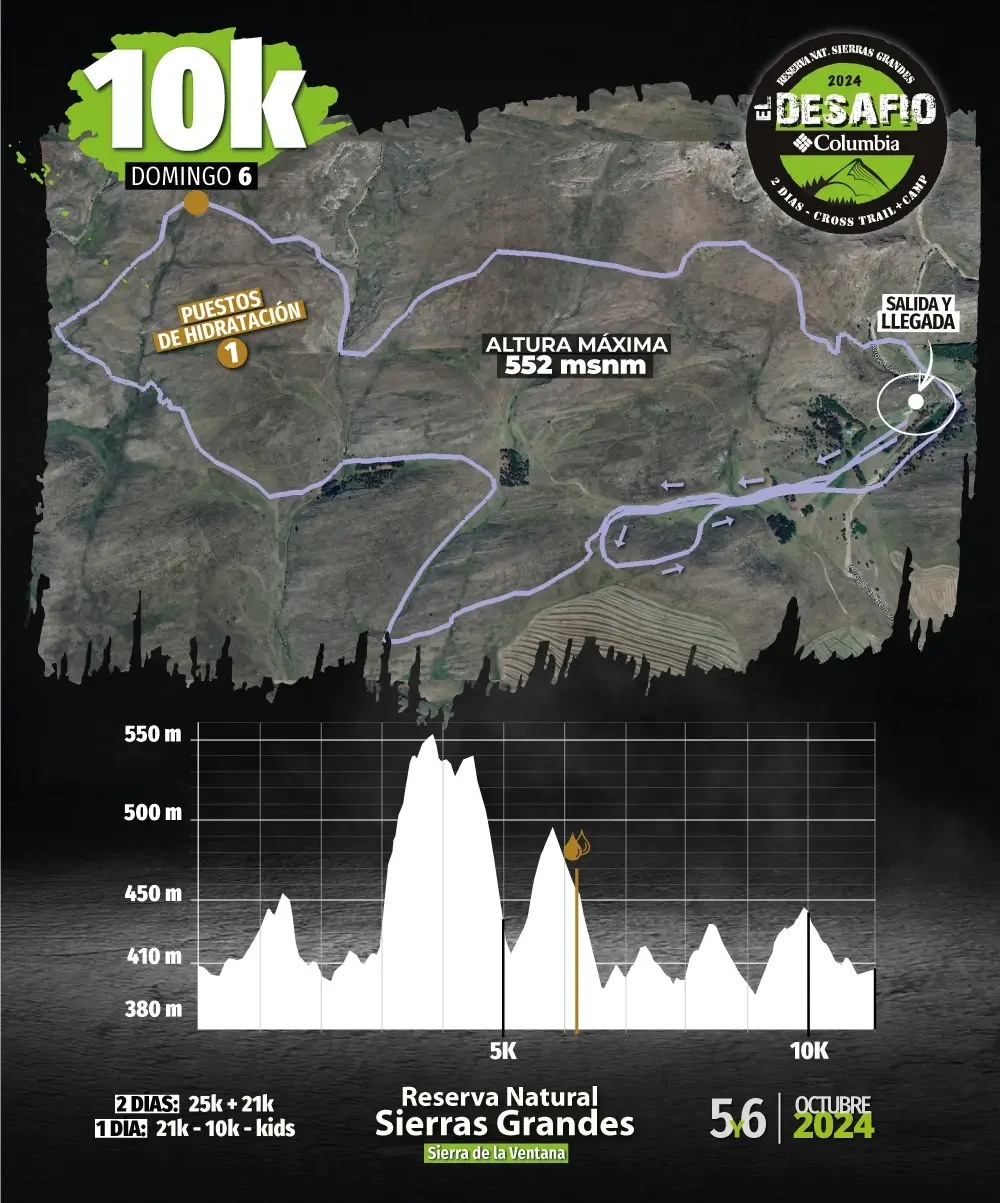
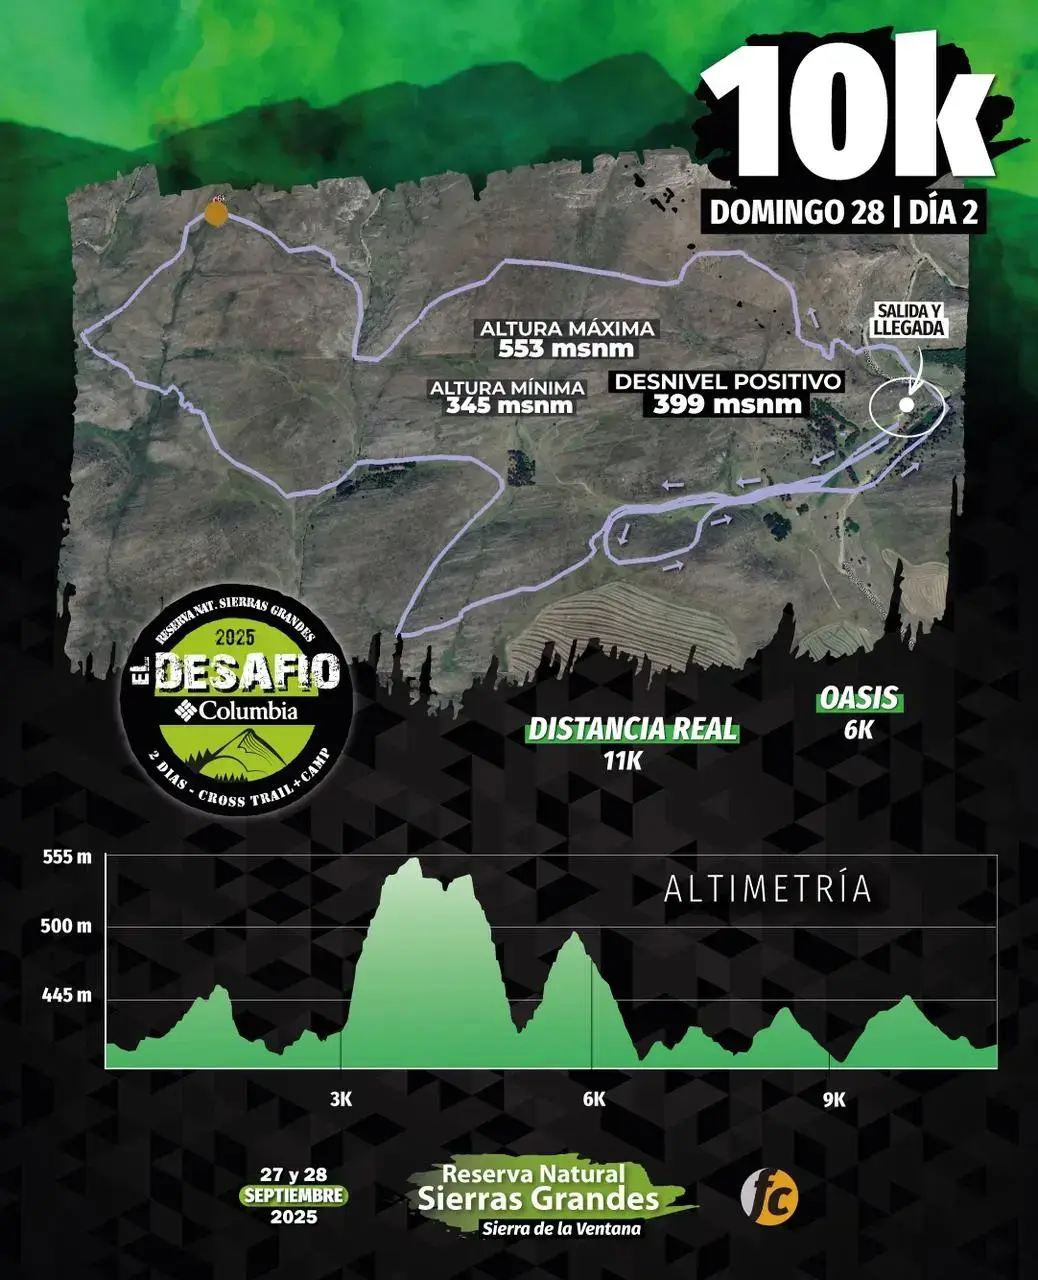
desafio imagenes recorrido

diff --git a/src/Components/Carreras/ElDesafio/Index/ElDesafio.js b/src/Components/Carreras/ElDesafio/Index/ElDesafio.js
@@ -9,10 +9,11 @@ import AptoMedicoDesafio from '../../../../PDF/aptoMedicoDesafio.pdf';
 import AutMenoresDesafio from '../../../../PDF/autMenoresDesafio.pdf';
 
 import elDesafio from '../../../../Img/ElDesafio/elDesafio.webp';
-/* import Imagen10KM from '../../../../Img/ElDesafio/10KM.webp';
+import Imagen10KM from '../../../../Img/ElDesafio/10KM.webp';
 import Imagen21KM from '../../../../Img/ElDesafio/21KM.webp';
-import Imagen25KM from '../../../../Img/ElDesafio/25KM.webp'; */
-import comoLlegar from '../../../../Img/ElDesafio/comoLlegar.webp'
+import Imagen25KM from '../../../../Img/ElDesafio/25KM.webp'; 
+import ImagenKids from '../../../../Img/ElDesafio/KIDS.webp';
+import comoLlegar from '../../../../Img/ElDesafio/comoLlegar.webp';
 
 
 import '../Index/elDesafio.css'
@@ -79,18 +80,21 @@ function ElDesafio() {
                 <ul>
                     <li><strong>El Desafío Columbia: 46K divididos en 2 días:</strong></li>
                 </ul>
-                <p>Son distancias reales de 23 kilómetros el sábado y 20 kilómetros el domingo, con campamento opcional.</p>
-                <p>Disfrutarán un recorrido duro con varios ascensos, uno de ellos es al Cerro Carpa, convirtiéndose en LA CARRERA MÁS ALTA DE LA PROVINCIA DE BUENOS AIRES con un ascenso de 1.000 metros. Es un evento ideal para prepararse para otras carreras exigentes de mayor distancia y también de varios días como El Cruce.</p>
+                <p>El sábado comienza la aventura para ustedes con la distancia más larga en el DÍA 1. Largan 14hs.</p>
+                <p>El campamento es opcional. Recomendamos vivir la experiencia.</p>
+                <p>El domingo, 10am, largan su DÍA 2 con el resto de las modalidades.</p>
+                <p>Disfrutarán un recorrido duro con varios ascensos, uno de ellos, el sábado, es al Cerro Carpa, convirtiéndose en LA CARRERA MÁS ALTA DE LA PROVINCIA DE BUENOS AIRES con un ascenso de 1.000 metros.</p>
+                <p>Es un evento ideal para prepararse para otras carreras exigentes de mayor distancia y también de varios días como El Cruce.</p>
 
                 <ul>
                     <li><strong>21K media maratón de domingo</strong></li>
                 </ul>
-                <p>Un día de carrera. 20 kilómetros. Un medio maratón ideal diseñado para aquellos corredores que buscan superarse a sí mismos elevando la barrera de los 10K. Es un verdadero trail donde se sumergirán en el interior de Sierras Grandes con un desnivel interesante que probará tu entrenamiento a lo largo del año.</p>
+                <p>Un día de carrera. Domingo. Un medio maratón ideal diseñado para aquellos corredores que buscan superarse a sí mismos elevando la barrera de los 10K. Es un verdadero trail donde se sumergirán en el interior de Sierras Grandes con un desnivel interesante que probará tu entrenamiento a lo largo del año.</p>
 
                 <ul>
                     <li><strong>10K y un inicio al trail running para muchos</strong></li>
                 </ul>
-                <p>Un día de carrera. 11 kilómetros el domingo. Una carrera para aquellos corredores que quieran incursionar en el mundo del trail running, y también para aquellos experimentados que les gusta la velocidad de los 10K con una mezcla de ascensos pronunciados y llanos para quemar zapatillas.</p>
+                <p>Un día de carrera. Domingo. Una distancia para aquellos corredores que quieran incursionar en el mundo del trail running, y también para aquellos experimentados que les gusta la velocidad de los 10K con una mezcla de ascensos pronunciados y llanos para quemar zapatillas.</p>
 
                 <ul>
                     <li><strong>Distancia kids: introducción al trail</strong></li>
@@ -100,7 +104,7 @@ function ElDesafio() {
                 <ul>
                     <li><strong>RESUMEN PARA TODAS LAS DISTANCIAS</strong></li>
                 </ul>
-                <p>Se van a encontrar con un verdadero TRAIL RUNNING. Es un terreno variado y con elevación donde disfrutarán las hermosas vistas que nos provee la Reserva Natural Sierras Grandes. Las distancias son reales: 23K, 20K, 11K y 1K para los kids.</p>
+                <p>Se van a encontrar con un verdadero TRAIL RUNNING. Es un terreno variado y con elevación donde disfrutarán las hermosas vistas que nos provee la Reserva Natural Sierras Grandes.</p>
 
 
                 <ul>
@@ -375,11 +379,13 @@ function ElDesafio() {
                 ></iframe>
 
 
-             {/*    <img src={Imagen25KM} alt='Recorrido 25KM' className='recorridos' /> 
+                <h3>RECORRIDO 25K</h3>
+
+                 <img src={Imagen25KM} alt='Recorrido 25KM' className='recorridos' /> 
 
              <h3>RECORRIDO 21K</h3>
 
-             <iframe
+           {/*   <iframe
                     src="https://www.instagram.com/p/C_0Ta_lunWl/embed"
                     width="400"
                     height="480"
@@ -388,14 +394,14 @@ function ElDesafio() {
                     allowtransparency="true"
                     allow="encrypted-media"
                     className='recorridos'
-                ></iframe>
+                ></iframe> */}
  
 
                 <img src={Imagen21KM} alt='Recorrido 21KM Desafío Sierras' className='recorridos' /> 
 
                 <h3>RECORRIDO 10K</h3>
 
-                 <iframe
+                {/*  <iframe
                     src="https://www.instagram.com/p/C_9BsyvuV-0/embed"
                     width="400"
                     height="480"
@@ -404,16 +410,16 @@ function ElDesafio() {
                     allowtransparency="true"
                     allow="encrypted-media"
                     className='recorridos'
-                ></iframe>
+                ></iframe> */}
                
 
                 <img src={Imagen10KM} alt='Recorrido 10KM Desafío Sierras' className='recorridos' /> 
 
-                <h3>VER MAPA INTERACTIVO DE RECORRIDOS</h3>
-                <iframe src="https://www.google.com/maps/d/embed?mid=1CoGqmWVPuxzKioYecP1hZj3ZRE5KkXs&ehbc=2E312F"  width="600" height="450" loading="lazy" className='mapas' title='Mapa interactivo carrera'></iframe> 
 
+                <h3>RECORRIDO KIDS</h3>
 
- */}
+                <img src={ImagenKids} alt='Recorrido Kids Desafío Sierras' className='recorridos' /> 
+
 
                 
                 <div style={{display:'flex', flexDirection:'column', margin:'auto', textAlign:'center'}}>
